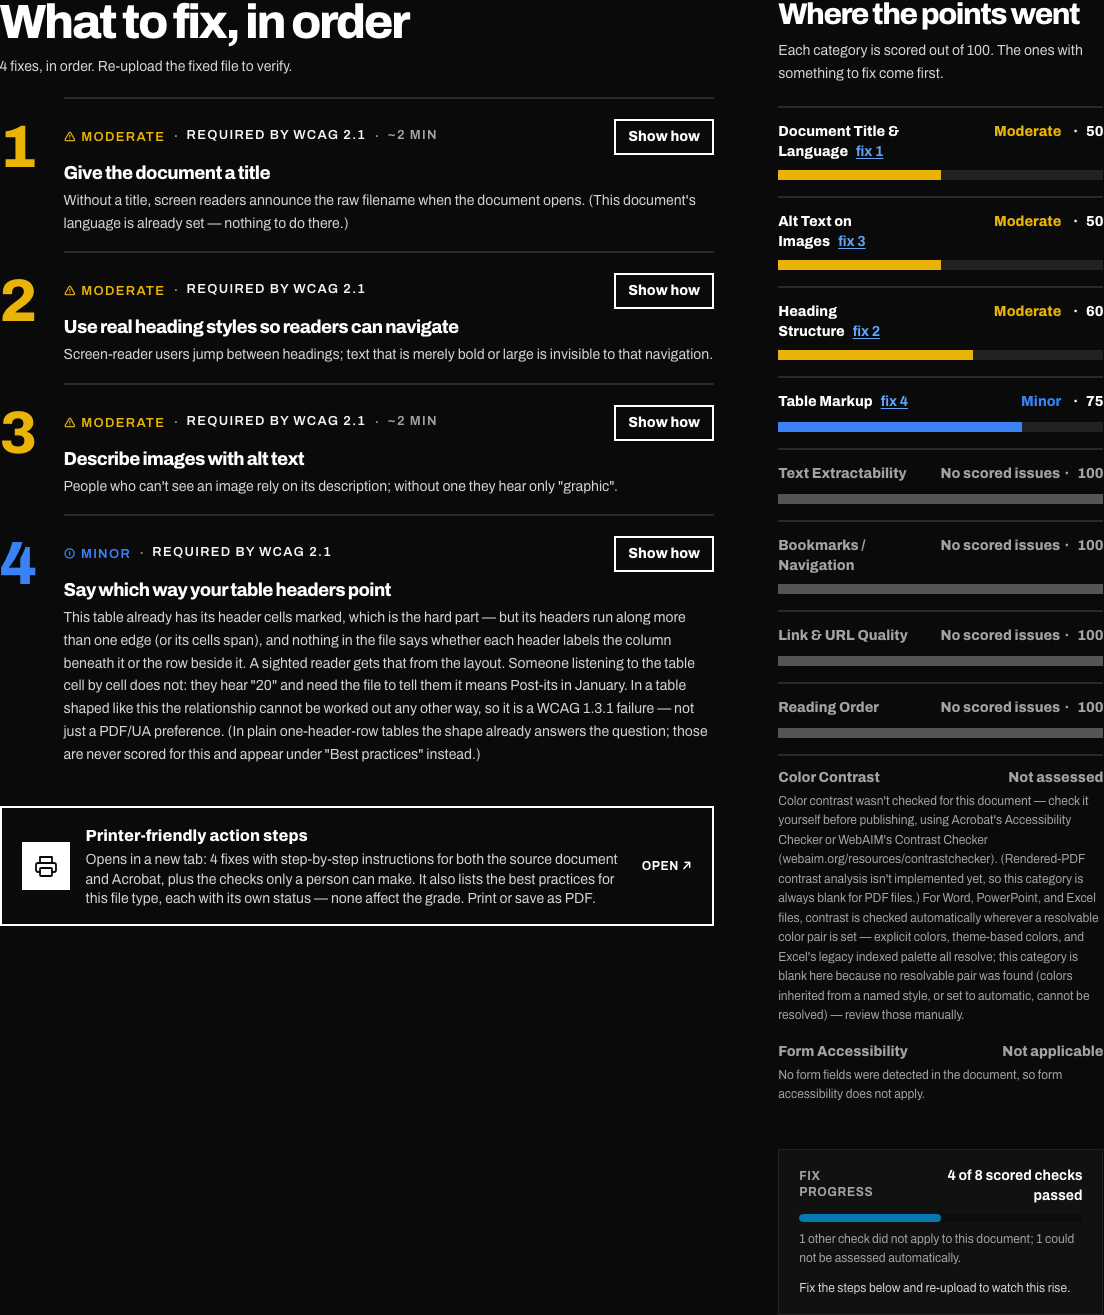
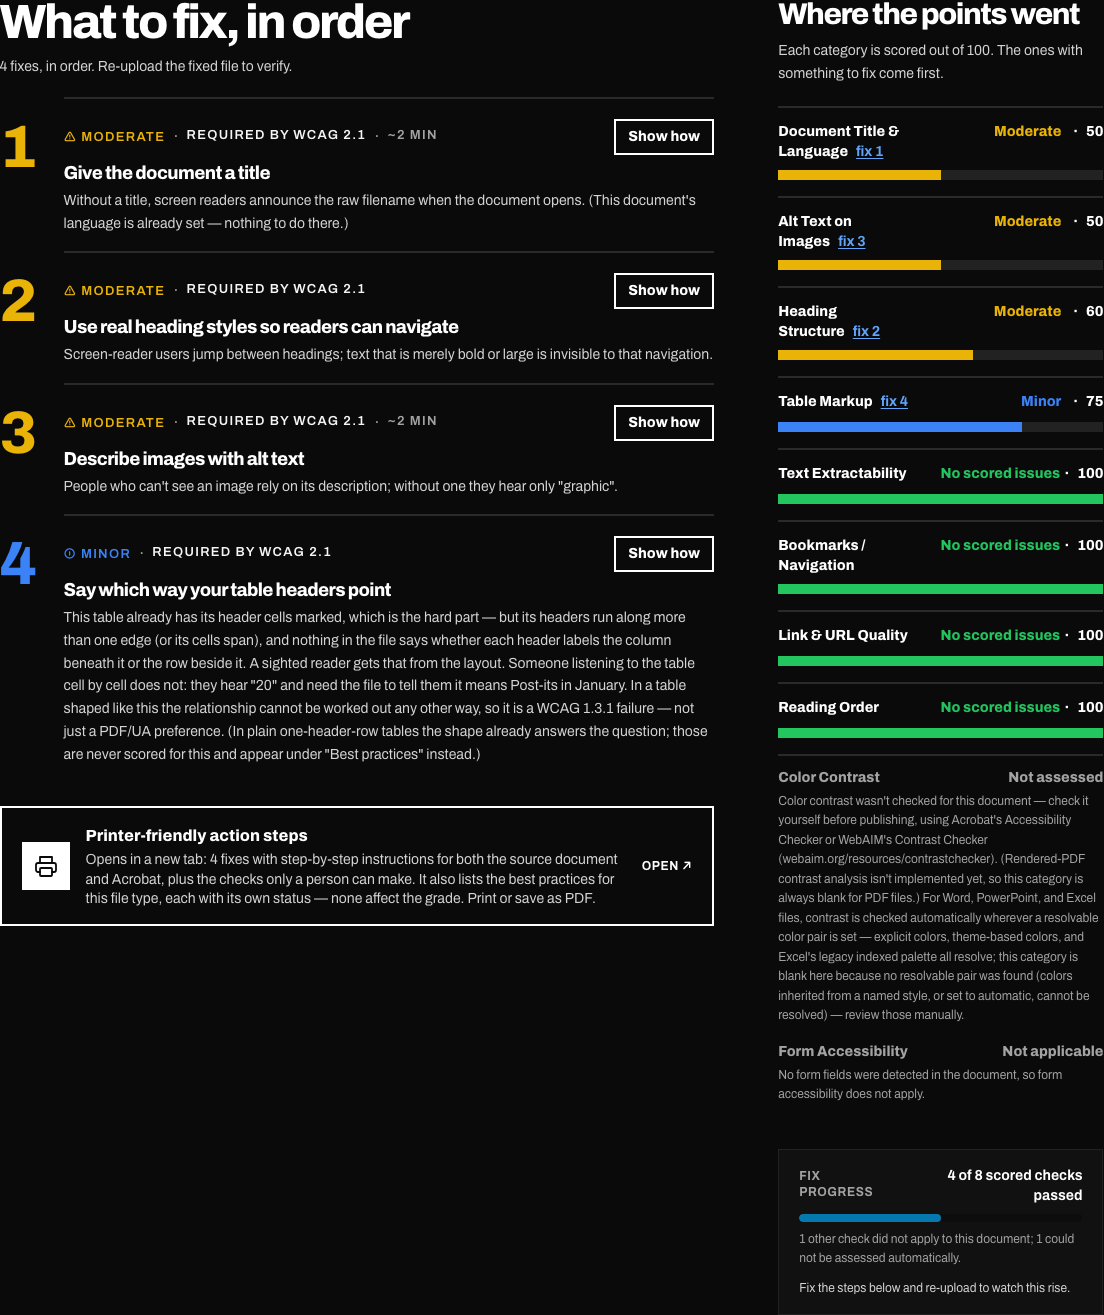
fix(report): a category with nothing to fix is drawn in green, not grey
In 'Where the points went' the passing categories were greyed to let the problems stand out, and read as 'not scored' (user report). They now use the pass green (--sev-pass, measured for both themes); grey is kept for the categories that really are not scored, listed under the bars. README screenshot and description updated to match.

Presentation only; no version change.

Changed region(s): [[0.7083, 0.343, 1.0, 0.5612]]

diff --git a/apps/web/app/components/CategoryBars.vue b/apps/web/app/components/CategoryBars.vue
@@ -16,9 +16,7 @@
         class="grid grid-cols-[minmax(0,1fr)_auto_auto] items-baseline gap-x-3 gap-y-2 border-t-2 border-[var(--border-alt)] pt-3 pb-4"
         :aria-label="rowLabel(cat)"
       >
-        <span
-          class="order-1 text-sm font-bold"
-          :class="isFlagged(cat) ? 'text-[var(--text-heading)]' : 'text-[var(--text-muted)]'"
+        <span class="order-1 text-sm font-bold text-[var(--text-heading)]"
           >{{ cat.label
           }}<a
             v-if="stepRanks?.[cat.id]"
@@ -31,7 +29,7 @@
           <div
             data-testid="bar-fill"
             class="h-2.5"
-            :class="isFlagged(cat) ? '' : 'bg-[var(--border-hover)]'"
+            :class="isFlagged(cat) ? '' : 'bg-[var(--sev-pass)]'"
             :style="
               isFlagged(cat)
                 ? { width: `${cat.score}%`, backgroundColor: sevColor(cat.severity!) }
@@ -40,8 +38,7 @@
           />
         </div>
         <span
-          class="order-3 text-right text-sm font-bold before:content-['·'] before:mr-2"
-          :class="isFlagged(cat) ? 'text-[var(--text-heading)]' : 'text-[var(--text-muted)]'"
+          class="order-3 text-right text-sm font-bold text-[var(--text-heading)] before:content-['·'] before:mr-2"
           aria-hidden="true"
           >{{ cat.score }}</span
         >
@@ -74,7 +71,7 @@
           ><span
             v-if="cat.severity"
             class="inline-block py-0.5 text-sm font-bold"
-            :class="isFlagged(cat) ? '' : 'text-[var(--text-muted)]'"
+            :class="isFlagged(cat) ? '' : 'text-[var(--sev-pass)]'"
             :style="isFlagged(cat) ? { color: sevColor(cat.severity) } : {}"
             >{{ cat.severity }}</span
           ></span
@@ -144,7 +141,9 @@ const ordered = computed(() =>
 
 // A category with a Critical, Moderate or Minor finding draws its bar and its
 // status in that severity's colour; one with nothing to fix draws them in the
-// page's own ink — so colour on this chart always means "look here".
+// pass green (--sev-pass, measured for both themes). They were grey for a few
+// hours of 2026-11-25 and read as "not scored" (user report) — grey is now
+// kept for the categories that really are not scored, listed under the bars.
 function isFlagged(cat: BarCategory): boolean {
   return cat.severity === "Critical" || cat.severity === "Moderate" || cat.severity === "Minor";
 }

diff --git a/README.md b/README.md
@@ -589,7 +589,7 @@ The first sweep after deploy materialises the whole window from the rows still i
 Since v1.54.0 every report — the live result and shared report pages alike — renders in one of two views, switched by a **Visual / Detailed** control (in the report's hero in the Visual view; a full-width chooser above the report in the Detailed view). Every report opens on the Visual view for everyone, every time (v1.61.1) — the choice deliberately does not persist, because the action plan lives in the Visual view and a sticky "Detailed" once hid it from the person who needed it.
 
 - **Visual view (default)** — a poster-style layout written for non-technical document authors: a grade block (the letter at poster scale on the brand colour, the score at its foot) beside a plain-English verdict that leads with the blocker when there is one ("Not ready to publish — 2 critical issues") and otherwise pairs the grade word with the outlook ("Excellent — ready to publish"), color-coded severity count tiles, a two-standards strip naming the WCAG 2.1 verdict, an **About this document** card (the stored document metadata — source application, dates, author — with a line naming which app the fix steps target and why; the Detailed view's Document Metadata panel carries the same line), and a numbered **action plan** ordered by severity, with a per-step fix-time chip and a plan-wide "typically under N minutes" total when every step is estimable (fix-time estimates derive from the report's own counts; judgment work is never timed). One step is open at a time; each carries big severity-colored step numbers, a plain-language "why it matters," fix routes for the source document (Word / PowerPoint / Excel — or InDesign, when the PDF's stored Creator metadata says InDesign made it) and — for PDFs — an Acrobat route that prefers the report's own document-specific steps, and WCAG criterion chips linking into the evidence, plus a version note naming the exact Word/Acrobat/InDesign versions the steps were verified against (with an IDS contact line for mismatched menus). "Where the score comes from" bars carry the score table's full data (score and severity per category, not-scored reasons — no per-category letter: since 2026-09-01 the only grade letter anywhere is the document's own, because a letter beside a category score gets read as the document's grade), and a single **Full technical report** expander holds the WCAG criteria detail, executive summary, audit-scope caveat, detailed findings with evidence, PDF/UA checks, methodology, and document metadata.
-- **Layout of the Visual view (v1.178.0, "verdict first")** — the page answers a first-time reader's questions in order. **(1) Can I publish this?** The verdict is the largest text in the hero ("Not ready to publish"), followed by one plain sentence counted in *fixes* — "4 fixes needed to meet WCAG 2.1 A/AA." — the same unit the plan and the "See the 4 fixes" button use. A fix is "needed" only when its category produced a failing WCAG 2.1 criterion; any other step is counted as "more recommended". **(2) What counts, and what cannot be checked:** the two-standards strip beside a short amber "What it cannot check" block, and one sentence tying the counts together ("These 4 fixes cover 3 failing WCAG 2.1 criteria in 4 categories."). **(3) The work:** "What to fix, in order" in the wide column, every step closed until "Show how" is pressed, with **"Where the points went"** beside it — the category bars, the ones with something to fix first, each linked to its step, and the fix-progress meter under them. **(4) What a person still has to do:** one amber section holding "Still worth checking by hand" and the full "checks a subset" explanation. **(5) "More in this report":** About this document, the source-document advice, and best practices with veraPDF's verdict, each folded behind a one-line row (native `<details>`), then the Matterhorn panel and the technical report. Every element the report had before is still present with the same data; only its position changed. Exports, the printed plan and the Detailed view keep the original verdict sentence.
+- **Layout of the Visual view (v1.178.0, "verdict first")** — the page answers a first-time reader's questions in order. **(1) Can I publish this?** The verdict is the largest text in the hero ("Not ready to publish"), followed by one plain sentence counted in *fixes* — "4 fixes needed to meet WCAG 2.1 A/AA." — the same unit the plan and the "See the 4 fixes" button use. A fix is "needed" only when its category produced a failing WCAG 2.1 criterion; any other step is counted as "more recommended". **(2) What counts, and what cannot be checked:** the two-standards strip beside a short amber "What it cannot check" block, and one sentence tying the counts together ("These 4 fixes cover 3 failing WCAG 2.1 criteria in 4 categories."). **(3) The work:** "What to fix, in order" in the wide column, every step closed until "Show how" is pressed, with **"Where the points went"** beside it — the category bars, the ones with something to fix first, each linked to its step (a category with nothing to fix is drawn in green; grey is kept for the categories that are not scored), and the fix-progress meter under them. **(4) What a person still has to do:** one amber section holding "Still worth checking by hand" and the full "checks a subset" explanation. **(5) "More in this report":** About this document, the source-document advice, and best practices with veraPDF's verdict, each folded behind a one-line row (native `<details>`), then the Matterhorn panel and the technical report. Every element the report had before is still present with the same data; only its position changed. Exports, the printed plan and the Detailed view keep the original verdict sentence.
 - **Detailed view** — the classic report, byte-identical to v1.53.0: score card with the conformance panel, issues summary, PDF/UA panels, methodology, and the full category detail.
 
 Since v1.91.0 the **PDF/UA-1 machine-check panel (veraPDF) renders for every PDF report** — the live result, both report views, and stored shared reports. When veraPDF did not run (binary not configured, or its bounded JVM queue was saturated) the panel says **"PDF/UA-1 machine checks (veraPDF): Did not run"** with a plain statement that not run means not checked, never passed — previously the panel silently disappeared, so a PDF report looked complete while the machine-checkable Matterhorn conditions went unexamined. A stored PDF report from before the field existed shows the same disclosure. The API attaches `pdfUaVerdict` with `available: false` in that case (previously the field was omitted), and `rebuild.sh`'s post-deploy smoke checks now probe the veraPDF engine via `/status?format=json` so a deploy that lost the binary is loud at deploy time rather than discovered one report at a time.
@@ -600,7 +600,7 @@ Data parity between the views is a tested invariant: every fact visible in one v
 
 ![The top of the Visual report view for the sample report, a 51-page PDF graded C. On the left, a solid blue block carries the small labels "Grade" and "WCAG 2.1 A/AA", a very large white letter C, and the score "77/100" at its foot. Beside it, under the label "Accessibility report for" and the filename sample-evaluation-report.pdf, the verdict is the largest text on the page: "Not ready to publish" in red, then "4 fixes needed to meet WCAG 2.1 A/AA." in white. A note explains that the grade does not include color contrast for PDFs. Three severity counts follow, each standing on a rule of its own line style — 0 Critical (grey, solid), 3 Moderate (yellow, dashed), 1 Minor (blue, dotted) — above a blue button reading "See the 4 fixes".](docs/images/report-visual-view-1.png)
 
-![The middle of the same report in two columns. On the left, "What to fix, in order": four numbered steps on ruled lines, each with a large numeral in its severity colour, a small-capitals label line (for example "Moderate · Required by WCAG 2.1 · ~2 min"), the step's title in bold, one or more sentences on why it matters, and a bordered "Show how" button; all four are closed. The steps are "Give the document a title", "Use real heading styles so readers can navigate", "Describe images with alt text" and "Say which way your table headers point". Under them is a bordered "Printer-friendly action steps" button. On the right, "Where the points went": each scored category with its status, its score out of 100 and a bar beneath, the four with something to fix first — Document Title & Language 50, Alt Text on Images 50, Heading Structure 60 (yellow bars, Moderate) and Table Markup 75 (blue bar, Minor), each followed by a "fix N" link to its step — then four greyed categories at 100 with "No scored issues". Below are the two categories that are not scored, Color Contrast (not assessed) and Form Accessibility (not applicable), each with its reason, and a "Fix progress" panel reading "4 of 8 scored checks passed".](docs/images/report-visual-view-2.png)
+![The middle of the same report in two columns. On the left, "What to fix, in order": four numbered steps on ruled lines, each with a large numeral in its severity colour, a small-capitals label line (for example "Moderate · Required by WCAG 2.1 · ~2 min"), the step's title in bold, one or more sentences on why it matters, and a bordered "Show how" button; all four are closed. The steps are "Give the document a title", "Use real heading styles so readers can navigate", "Describe images with alt text" and "Say which way your table headers point". Under them is a bordered "Printer-friendly action steps" button. On the right, "Where the points went": each scored category with its status, its score out of 100 and a bar beneath, the four with something to fix first — Document Title & Language 50, Alt Text on Images 50, Heading Structure 60 (yellow bars, Moderate) and Table Markup 75 (blue bar, Minor), each followed by a "fix N" link to its step — then four categories at 100 with "No scored issues", their bars and status in green. Below are the two categories that are not scored, Color Contrast (not assessed) and Form Accessibility (not applicable), each with its reason, and a "Fix progress" panel reading "4 of 8 scored checks passed".](docs/images/report-visual-view-2.png)
 
 ![The "check by hand" section of the same report, set apart by an amber rule down its left edge. On the left, the panel "Still worth checking by hand" opens with the statement that no automated audit — this one included — can tell you a document is accessible, only where it definitely is not, then explains that fixing everything in the action plan will not on its own make the document accessible. Under "Not checked by this tool at all" it lists the seven WCAG 2.1 criteria that were not machine-checked on this document, each a link with its level and a sentence on why: 1.4.3 Contrast (Minimum), 3.1.2 Language of Parts, 1.4.1 Use of Color, 1.4.5 Images of Text, 1.4.11 Non-text Contrast, 1.3.3 Sensory Characteristics and 2.4.6 Headings and Labels. On the right, an amber-headed panel, "This tool checks a subset — a human has to check the rest", says independent tests put the machine-checkable share at roughly 30–40% of issues, shows that split as a short solid bar beside a longer dashed one, describes the two halves ("Machine-checkable · roughly 30–40% — Checked, this score" and "Human judgment · roughly 60–70% — Still open, needs a person"), and names its sources.](docs/images/report-visual-view-3.png)
 
